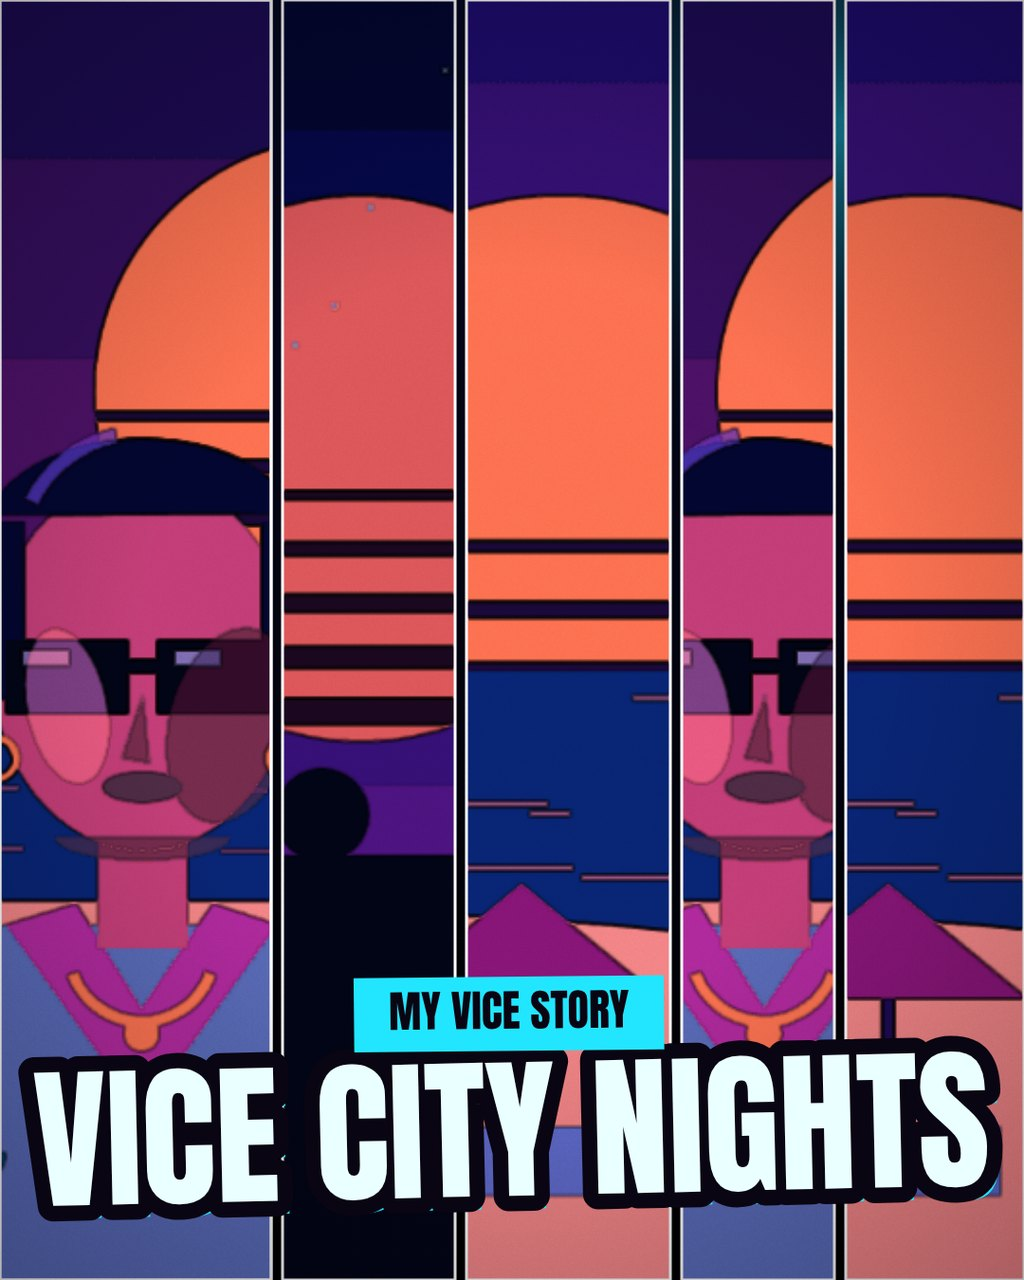
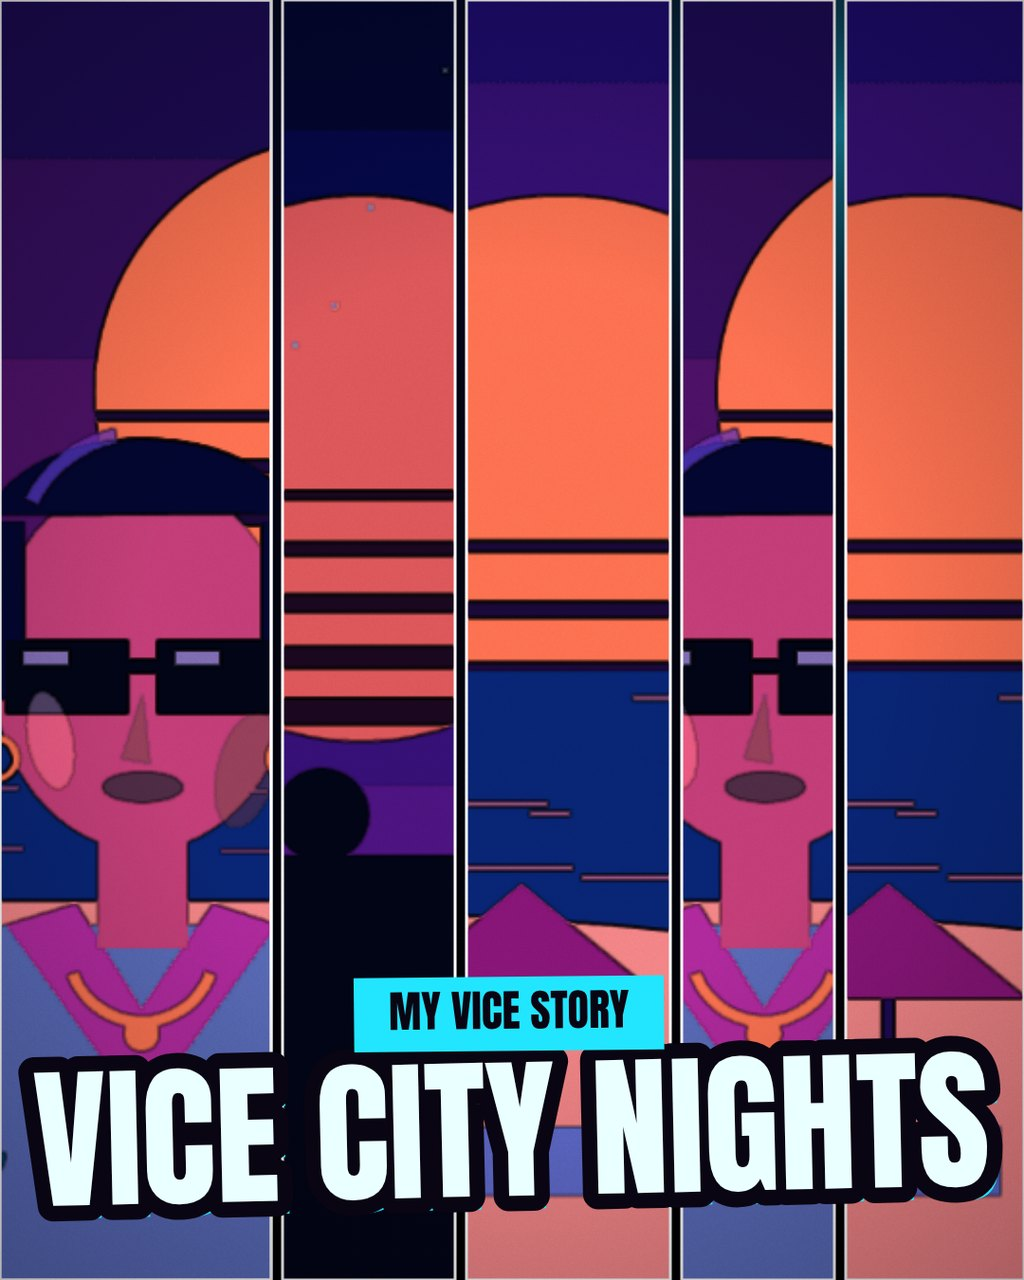
Vice Cover Studio — round 3: cheek shading as tight poster planes

Changed region(s): [[0.0, 0.4688, 0.2812, 0.6875], [0.6562, 0.5, 0.8125, 0.6875]]

diff --git a/app/src/demo.js b/app/src/demo.js
@@ -124,14 +124,13 @@ export function makePortraitScene() {
   ctx.beginPath(); ctx.ellipse(446, 664, 34, 13, 0, 0, 6.2832); ctx.fill();
   // Face modelling: cheek + jaw shadow, nose, brow shadow - flat shapes
   // that survive posterizing as shaded planes, not a blank oval.
-  ctx.fillStyle = 'rgba(146,62,32,0.55)';
-  ctx.beginPath(); ctx.ellipse(520, 612, 52, 84, 0.25, 0, 6.2832); ctx.fill();
-  ctx.beginPath(); ctx.ellipse(446, 706, 74, 20, 0, 0, 3.1416); ctx.fill();
+  ctx.fillStyle = 'rgba(146,62,32,0.45)';
+  ctx.beginPath(); ctx.ellipse(534, 650, 25, 50, 0.25, 0, 6.2832); ctx.fill();
   ctx.beginPath();
   ctx.moveTo(446, 585); ctx.lineTo(428, 640); ctx.lineTo(452, 644);
   ctx.closePath(); ctx.fill();
-  ctx.fillStyle = 'rgba(255,214,170,0.5)';
-  ctx.beginPath(); ctx.ellipse(382, 596, 34, 66, -0.2, 0, 6.2832); ctx.fill();
+  ctx.fillStyle = 'rgba(255,214,170,0.38)';
+  ctx.beginPath(); ctx.ellipse(368, 624, 19, 42, -0.2, 0, 6.2832); ctx.fill();
   // Gold earrings.
   ctx.strokeStyle = '#ffd23e';
   ctx.lineWidth = 7;
